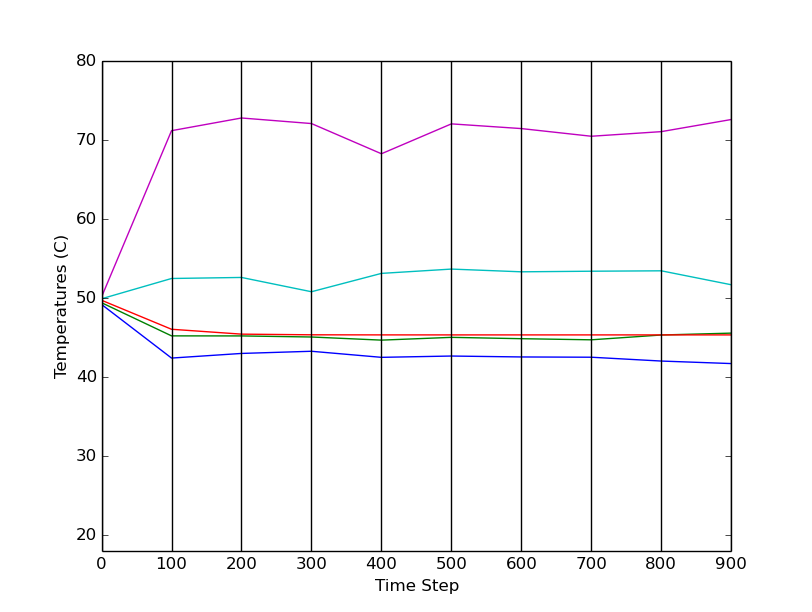
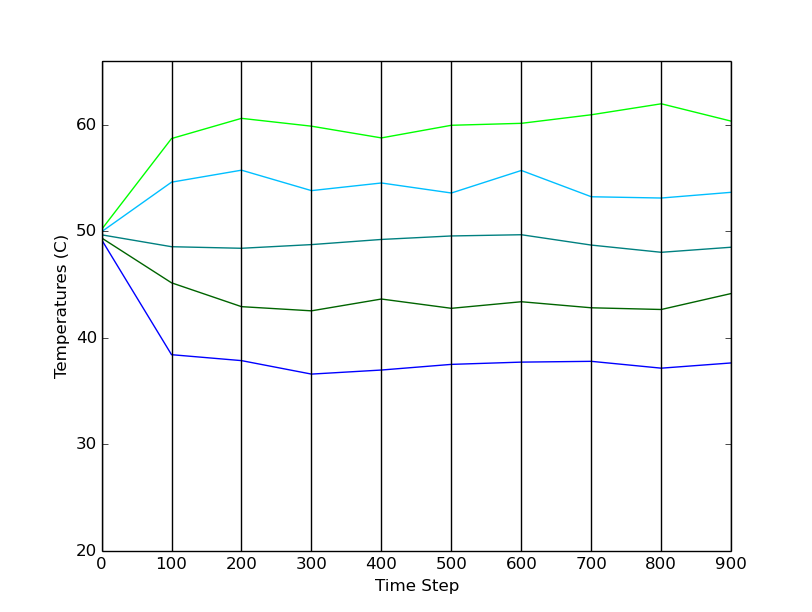
Added colors also you forgot your charger

diff --git a/main.py b/main.py
@@ -88,7 +88,7 @@ class Big:
     # Simulates for t timesteps. It'll draw and save a frame every draw_save
     # timesteps.
     # Int -> Int -> Void
-    def Main(self, max_time_step, draw_save = 10000):
+    def Main(self, max_time_step, frequency, draw_save = 10000):
         times = []
         means = []
         stds = []
@@ -96,8 +96,8 @@ class Big:
             if t % 10 == 0:
                 print t
             self.step()
-            #self.MixingFrequency(t, 2000)
-            self.MixingOnCondition(50,5)
+            self.MixingFrequency(t, frequency)
+            #self.MixingOnCondition(50,5)
             self.switch_lattice()
             if t % draw_save == 0:
                 self.draw(int(self.x_size / 2.0),t)
@@ -352,6 +352,7 @@ faucet_width = 1
 faucet_length = 1
 faucet_temp = 74
 faucet_node_depth = 4 #z_size - 3
+frequency = 10
 
 bigData = []
 """for xx in range(0, z-2):
@@ -360,26 +361,66 @@ bigData = []
     data = b.Main(1000,100)
     bigData.append((data,xx))"""
 
+
+
+#Blue, Dark Green, Teal,
+#Deep Sky Blue, Lime, Cyan,
+#Indigo, Maroon, Purple,
+#Gold, Medium Violet Red, Saddle Brown 
+colDic = {
+'#0000FF':'Blue',
+'#006400': 'Dark Green',
+'#008080': 'Teal',
+'#00BFFF':'Deep Sky Blue',
+'#00FF00':'Lime',
+'#00FFFF':'Cyan',
+'#4B0082':'Indigo',
+'#800000':'Maroon',
+'#800080':'Purple',
+'#FFD700':'Gold',
+'#C71585':'Medium Violet Red',
+'#8B4513':'Saddle Brown'}
+
+colors = ['#0000FF', '#006400', '#008080',
+          '#00BFFF', '#00FF00', '#00FFFF',
+          '#4B0082', '#800000', '#800080',
+          '#FFD700', 'C71585', '#8B4513']
+          
+c = 0
+prints = []
+"""for freq in range(10,100,10):
+    print "Freq: " + str(freq)
+    b = Big(x,y,z,BuildLatticeRectangularTub(x,y,z,1,body),
+            faucet_x, faucet_y, faucet_width, faucet_length,
+            faucet_temp, faucet_node_depth)
+    data = b.Main(1000, freq, 100)
+    bigData.append((data,freq,colors[c]))
+    prints.append((freq, colDic[colors[c]]))
+    c += 1"""
+  
 for f_temp in range(50, 100, 10):
     b = Big(x,y,z,BuildLatticeRectangularTub(x,y,z,1,body),
             faucet_x, faucet_y, faucet_width, faucet_length,
             f_temp, faucet_node_depth)
-    data = b.Main(1000,100)
-    bigData.append((data,f_temp))
+    data = b.Main(1000,frequency,100)
+    bigData.append((data,f_temp,colors[c]))
+    prints.append((f_temp, colDic[colors[c]]))
+    c += 1
   
 plt.clf()
 times = []
 names = []
-ylow = 18
-yhigh = 80
-for xx in bigData:
-  plt.plot(xx[0][0], xx[0][1], label='Faucet Temp: ' + str(xx[1]))
-  times = xx[0][0]
+ylow = 20
+yhigh = 66
+for data in bigData:
+  plt.plot(data[0][0], data[0][1], label='Faucet Temps: ' + str(data[1]), color=data[2])
+  times = data[0][0]
   plt.ylim((ylow,yhigh))
 
+for p in prints:
+  print p
 for x in times:
   plt.plot([x, x], [ylow, yhigh], 'k')
-
 
 plt.xlabel("Time Step")
 plt.ylabel("Temperatures (C)")
